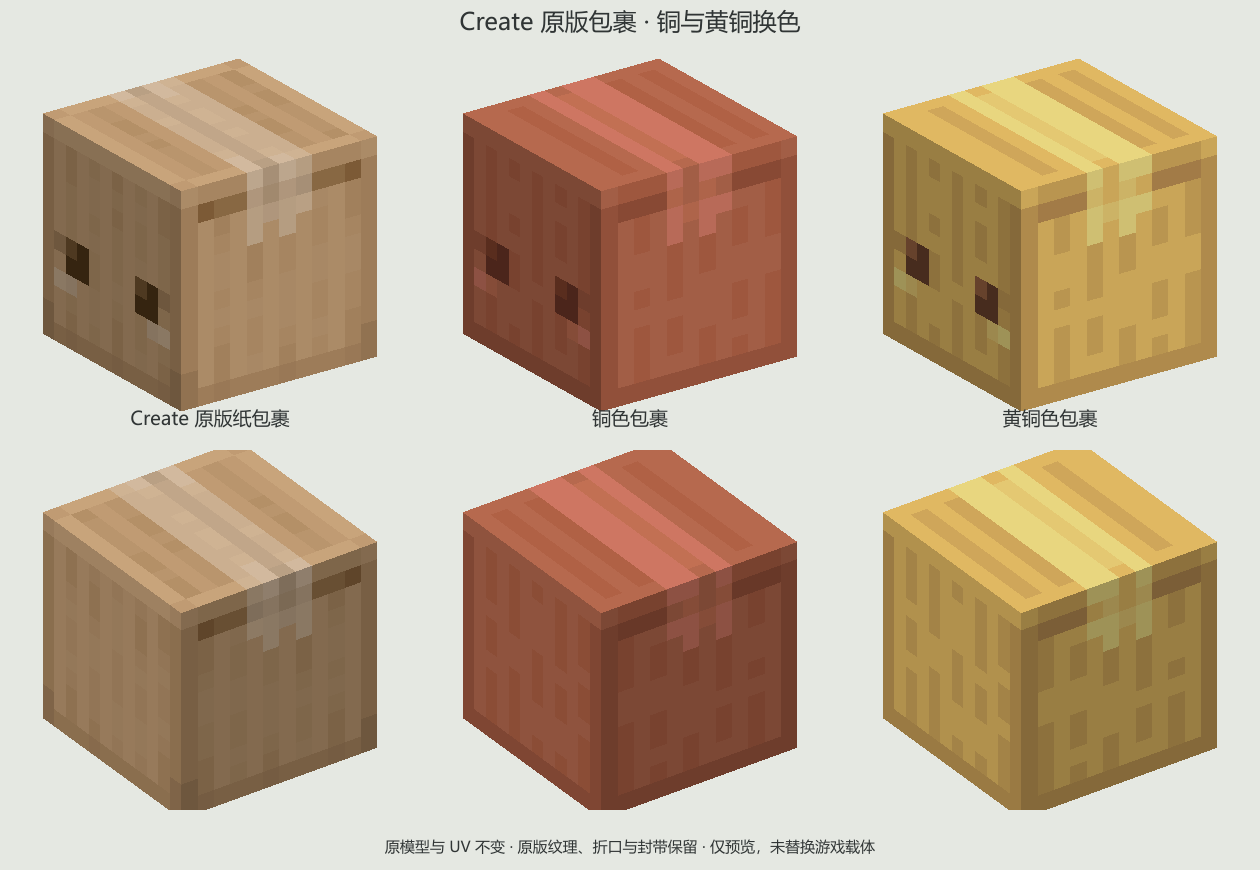
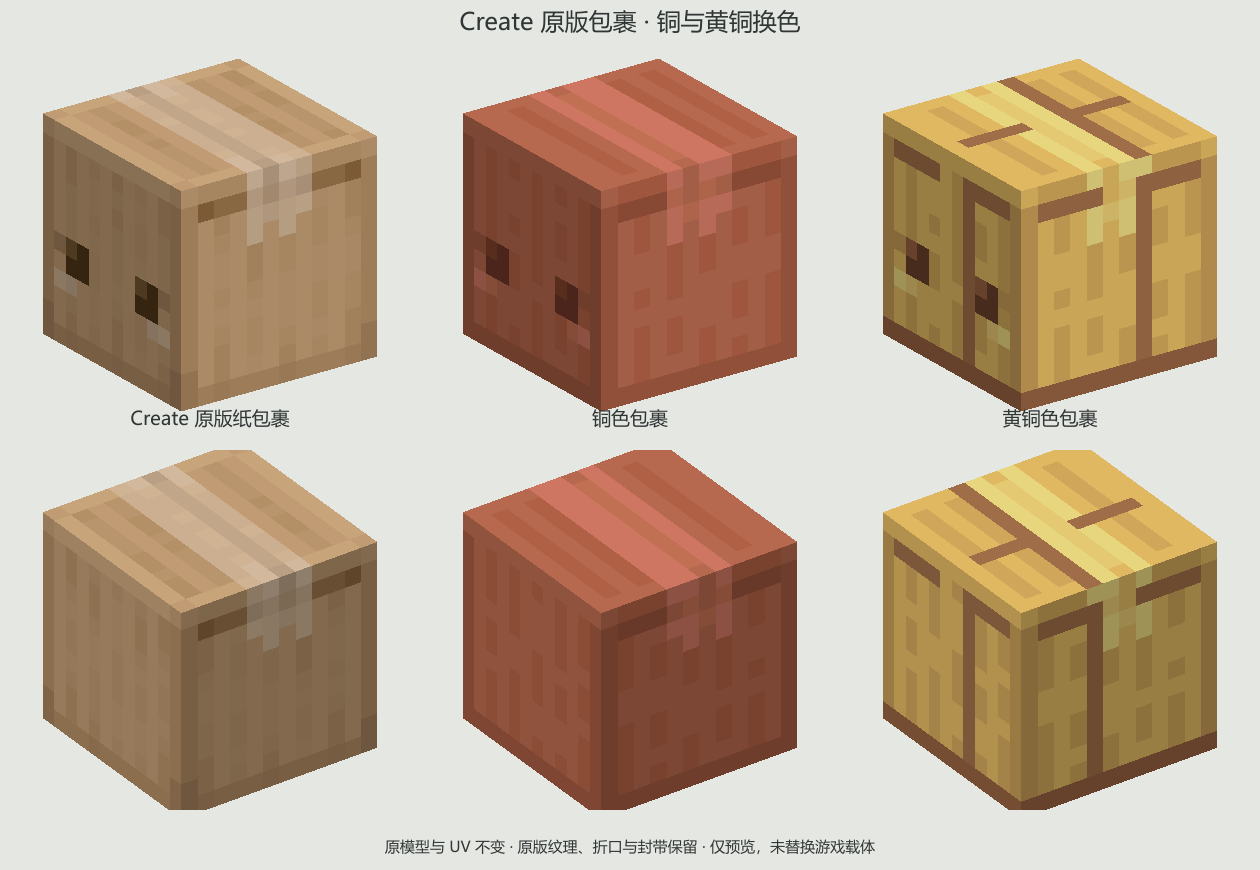
Add restrained mechanical arm brown seams to brass package study

diff --git a/tools/preview-native-metal-packages.py b/tools/preview-native-metal-packages.py
@@ -23,6 +23,21 @@ with ZipFile(next((Path.home()/'.gradle/caches/modules-2/files-2.1/com.simibubi.
                 value=round(.2126*r+.7152*g+.0722*b,3)
                 index=round(values.index(value)/(len(values)-1)*(len(ramp)-1))
                 image.putpixel((x,y),(*ramp[index],a))
+        if name=='brass':
+            # Mechanical-arm style brown folds, confined to structural seams.
+            # Preserve paper-derived face grain and keep a narrow adjacent gold lip.
+            for tile in range(5):
+                left,top=36,1+tile*12
+                if tile<3:
+                    for x in range(12):
+                        image.putpixel((left+x,top+11),(*ramp[2],255))
+                    for x in range(1,11):
+                        if x not in (5,6): image.putpixel((left+x,top+1),(*ramp[3],255))
+                    for y in range(2,11): image.putpixel((left+7,top+y),(*ramp[3],255))
+                else:
+                    for y in range(12): image.putpixel((left+7,top+y),(*ramp[3],255))
+                    for x in list(range(1,5))+list(range(8,11)):
+                        image.putpixel((left+x,top+5),(*ramp[3],255))
         image.save(A/f'textures/item/native_package_{name}.png')
         model=json.loads(json.dumps(native)); model['textures']['0']=f'ccd:item/native_package_{name}'
         model['textures']['particle']=model['textures']['0']
